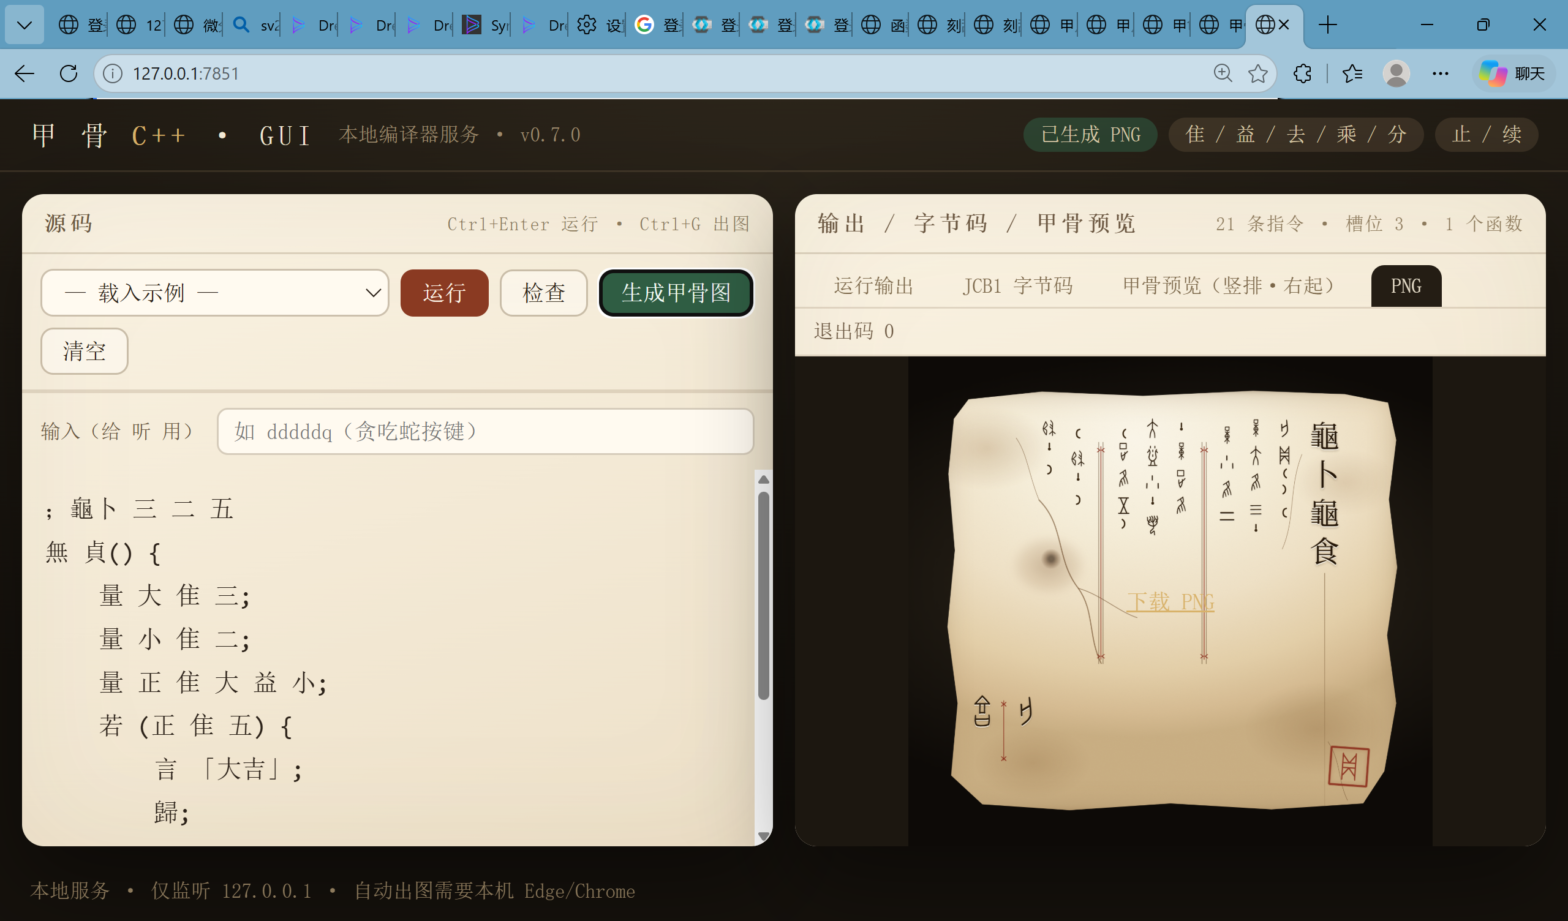
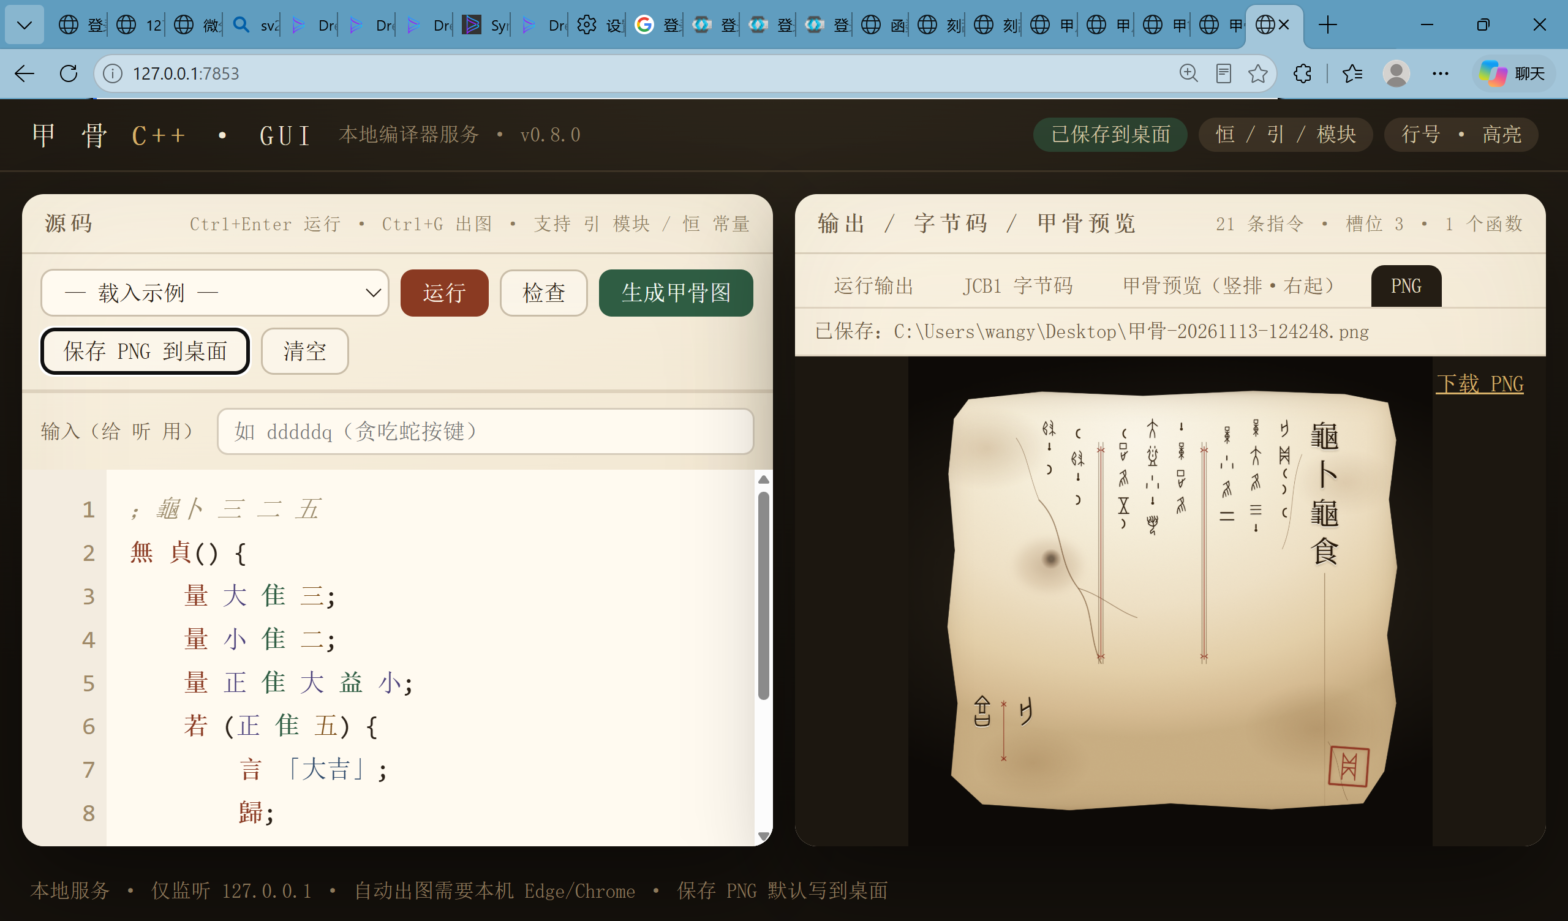
v0.8.0：模块化（引）、常量（恒）、标准库（lib/學、lib/兆）、GUI 行号/语法高亮/保存PNG到桌面

diff --git a/SPEC.md b/SPEC.md
@@ -250,3 +250,36 @@ jcp build 源.jcp --png
 - 单文件 exe 内置字体，`jcp gui` 无需额外字体文件；自动出图仍需本机 Edge/Chrome。
 
 当前版本：**jcp 0.7.0**；自动测试 **32 项**（含 GUI 本地服务接口测试）。
+## 17. v0.8.0：模块、常量、标准库与 GUI 强化
+
+### 17.1 模块化
+
+```
+引 學;          ；加载 lib/學.jcp
+引 兆;
+```
+
+- 解析顺序：源文件同目录 → 同目录 lib/ → 可执行文件旁 lib/ → 当前目录 lib/ → exe 内置标准库；
+- 模块文件只含函数（不能定义入口 貞），可再 `引` 其他模块（自动去重、防循环）；
+- 模块函数与主程序函数共享全局命名空间，重名在语义检查期报错。
+
+### 17.2 常量
+
+```
+恒 甲 隹 七;
+甲 隹 二;       ；语义错误：常量不可赋值
+```
+
+### 17.3 标准库（随 exe 内置）
+
+- `lib/學.jcp`：大、小、方、正、余
+- `lib/兆.jcp`：兆(種, 上, 下) 确定式随机；内部 `引 學;` 演示模块依赖
+
+### 17.4 GUI 强化
+
+- 编辑器：**行号 + 语法高亮**（关键字/算子/数字/字符串/注释/标识符分色，透明 textarea 叠加高亮层，滚动同步）；
+- **保存 PNG 到桌面**按钮（`/api/png-save`，默认写入桌面，可用 `JCP_SAVE_DIR` 覆盖）；
+- `jcp gui` 默认以浏览器**应用窗口模式**（Edge/Chrome `--app`）打开；
+- 输出区仍含 运行输出 / JCB1 字节码 / 甲骨预览 / PNG 四视图。
+
+当前版本：**jcp 0.8.0**；自动测试 **36 项**。

diff --git a/README.md b/README.md
@@ -107,6 +107,23 @@ SPEC.md        语言规范（v0.6.1）
 docs/          自动生成的示例图
 ```
 
+
+## 模块、常量与标准库（v0.8.0）
+
+```
+引 學;                  ；模块：加载 lib/學.jcp（exe 内置标准库兜底）
+恒 甲 隹 七;            ；常量：不可赋值
+
+無 貞() {
+    言 大(三, 五);      ；标准库函数
+    言 兆(七, 十, 二十); ；确定式随机 [十, 二十)
+    歸;
+}
+```
+
+- 标准库模块：`lib/學.jcp`（大 小 方 正 余）、`lib/兆.jcp`（兆(種,上,下)，内部 `引 學;`）
+- 模块可嵌套引用，自动去重；模块不能定义入口 `貞`
+- GUI：编辑器带**行号与语法高亮**，新增「保存 PNG 到桌面」，`jcp gui` 默认应用窗口打开
 ## 打包单文件 exe（可选）
 
 ```bash
